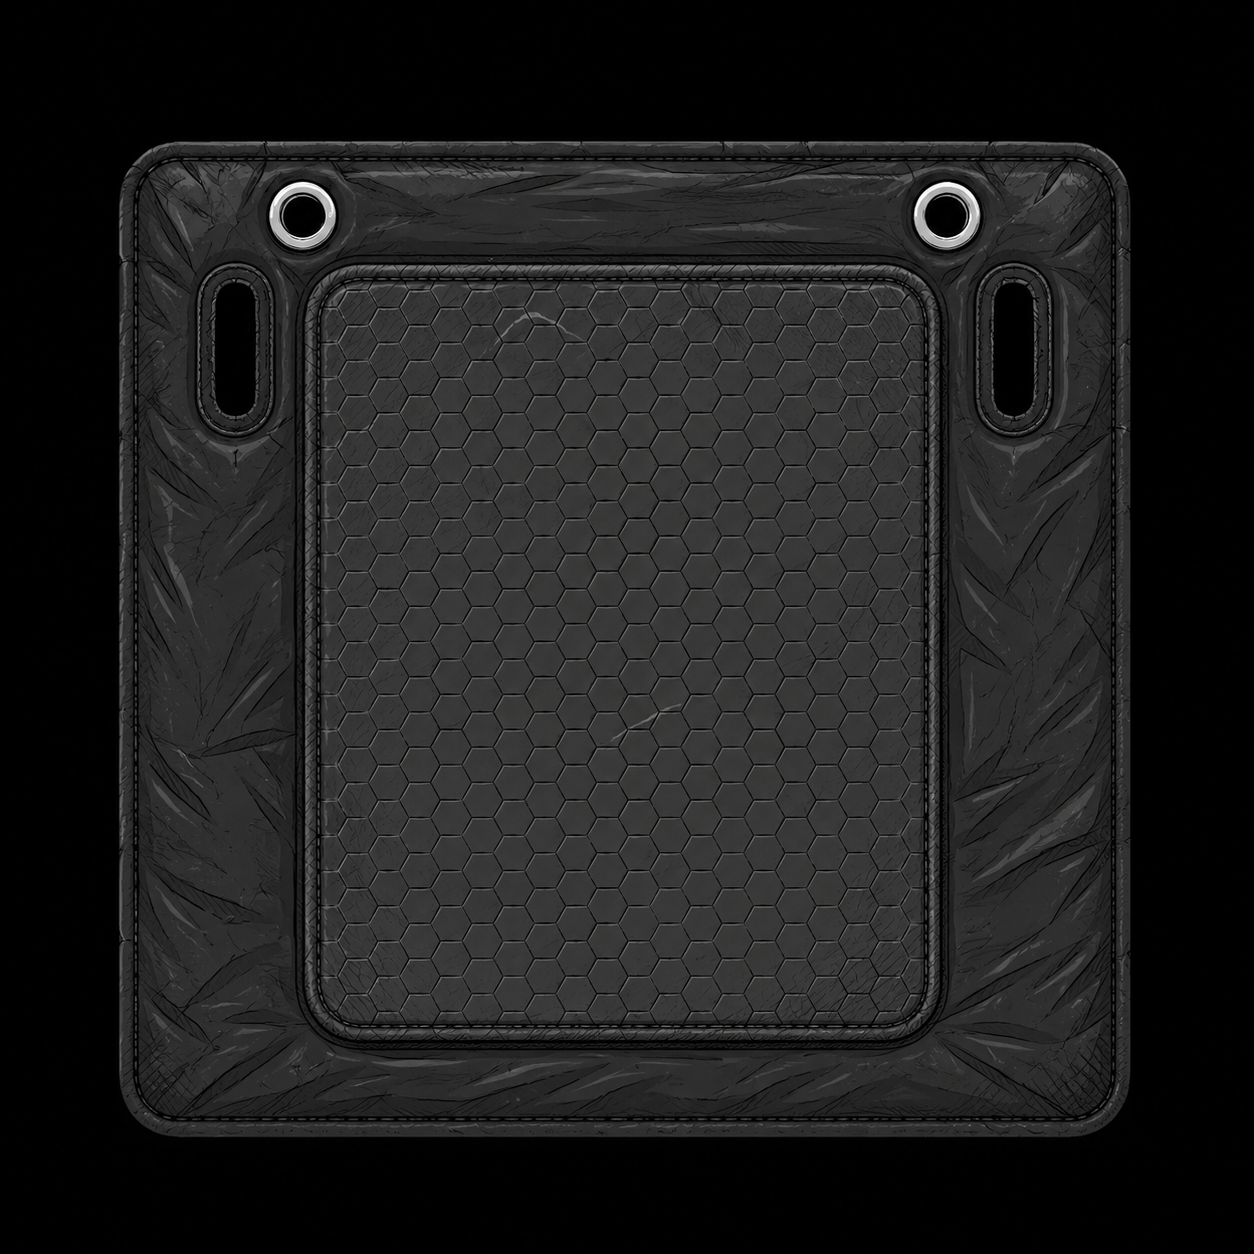
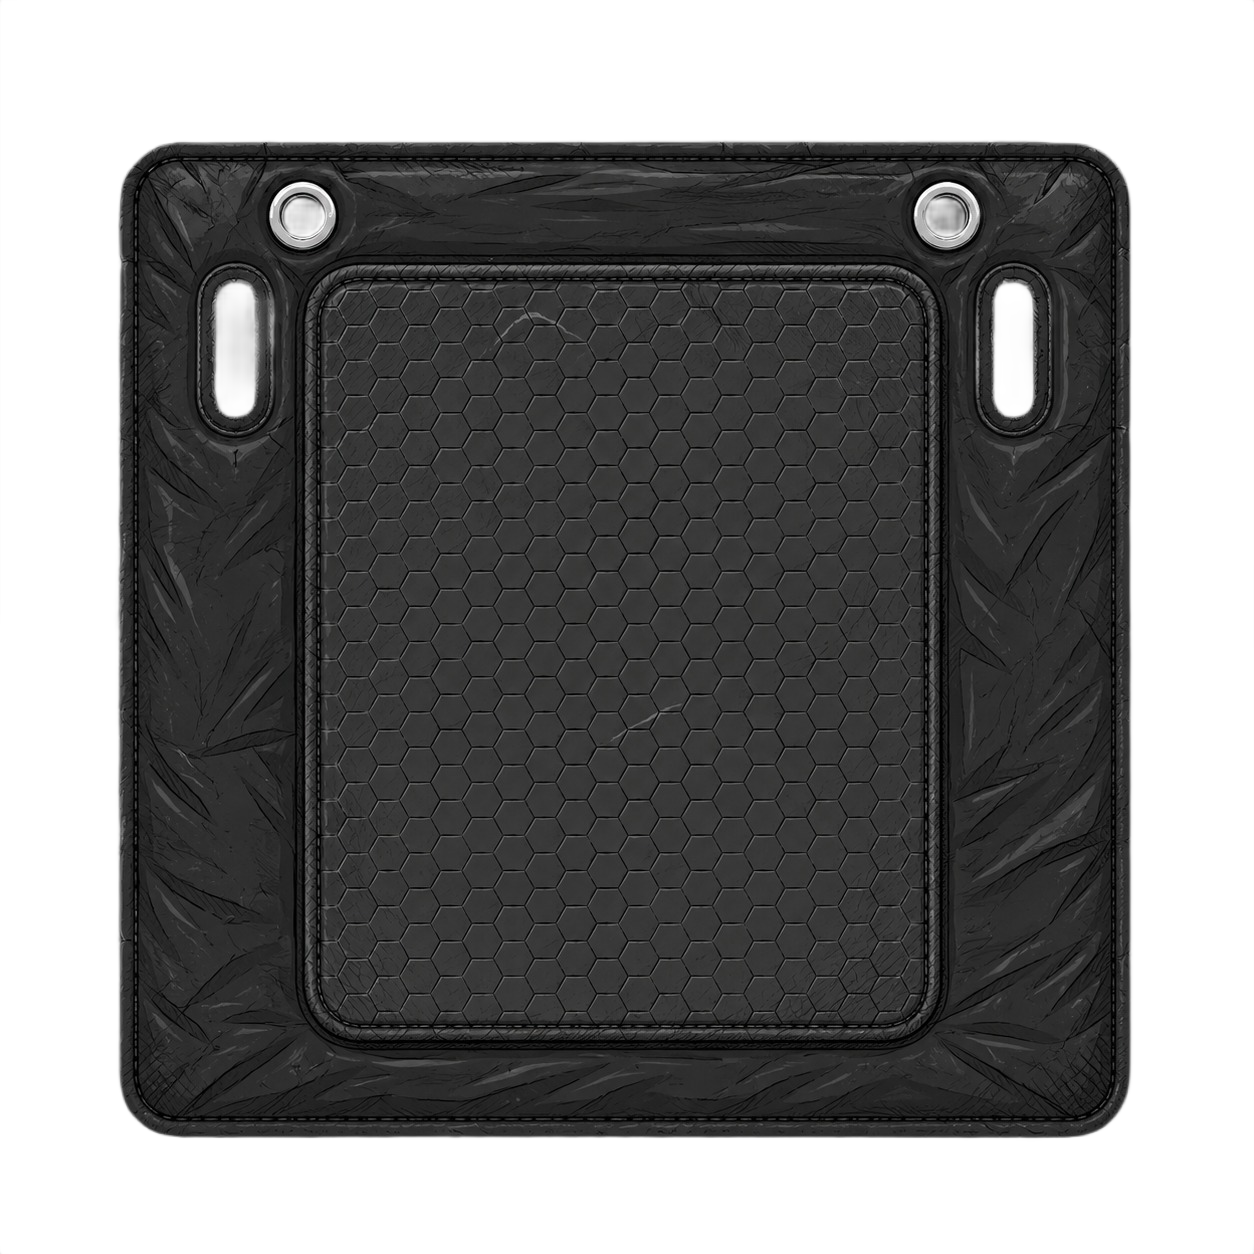
v3.5.33 — new square bag tile
Swapped in Goyim's new finished bag tile (1254x1254) as bag.png; removed the
redundant bag (1).png. drawBagSkin draws it full (no crop). Re-enabled the bag
skin on chute/wall/floor; the black-box pal is now the fallback.

diff --git a/lock-in.html b/lock-in.html
@@ -25,11 +25,12 @@ gtag('config','G-FJBRX2G0E5',{anonymize_ip:true});
 @import url('https://fonts.googleapis.com/css2?family=Share+Tech+Mono&family=Bebas+Neue&family=Barlow+Condensed:wght@400;700;900&display=swap');
 
 /* ================================================================
-   LOCK IN v3.5.32
+   LOCK IN v3.5.33
    LOCK IN — V. Gonzalez — © 2026
    CSS: Warm-industrial LIGHT dock (default), warm-dark toggle, amber+teal.
 
    CHANGE LOG v2.4.6 — LOOP WATCHDOG (silent-stall fix + diagnosis). The mid-wall freeze does NOT throw (window.__LI_ERR was never set) — the render loop silently stops advancing. New watchdog: the loop ticks a heartbeat every frame; a 1.2s timer checks it. If the heartbeat stalls while the game should be running (not paused, not game-over, no menu/pause/end/report screen up), the loop is AUTO-RESTARTED so you can never be stuck again, and a one-time amber strip prints the exact state (paused/gOver/mode/placed/wallH/animF/lastLoopT) to window.__LI_STALL + console. It also catches a degenerate canvas (W or H collapsed) and re-runs resize(). This both heals the freeze live AND tells us the cause on the next occurrence. No gameplay change.
+   CHANGE LOG v3.5.33 - NEW BAG TILE. Goyim uploaded a new finished SQUARE bag tile (bag (1).png, 1254x1254 -> swapped in as bag.png, redundant (1) removed). drawBagSkin now draws it FULL (no crop) since it is a complete tile. Re-enabled the bag skin path on chute + wall + floor-slot (the v3.5.32 black box is now the !BAGIMG_OK fallback). No scoring change.
    CHANGE LOG v3.5.32 - BAG/SMALLS RESHADE + LEGIBILITY (color pass start). bag.png skin RETIRED (Goyim: "so terrible") — bags now render as a normal cardboard box BLACK-shaded via pal (like smalls were purple); chute/wall/floor all reverted to the box render. Smalls reshaded PURPLE -> WHITE (pal + glow). Completion badge ("WALL COMPLETE - 95% TARGET HIT") was 9px slop -> 18px Bebas, legible. Color/legibility pass continues. No scoring change.
    CHANGE LOG v3.5.31 - MENU OVERLAY Z-FIX + BAG CROP. Leaderboard/Profile/Linehaul overlays were z-index 355-360, BELOW the start menu (400), so opening them from the menu buried them behind the mode cards (not interactive). Bumped to 560 (above the menu, matching Settings) — verified the tabs + close are now topmost/clickable from the menu. Bag crop moved up + zoomed to fill the top (BAG_CROP sy 235->140, ss->602). NOTED: Goyim wants (1) a colorful text/UI theme across the game to match the menu, (2) social as a bottom tab -> a dashboard (own stats + leaderboard + friends). No scoring change.
    CHANGE LOG v3.5.30 - BAG SKIN CROP + CROOKED TAPES. Bag skin now uses only the INNER QUILTED SQUARE of bag.png (BAG_CROP) as the 3x3 skin (chute+wall+floor), cropping the bulging poly excess. Tapes reworked into crooked "indicator tape": seed-stable random position+angle (never spins with the piece; labels stay upright), capped at 2 (less crowded). SMALLS now wear the frontload sticker. haztape is a prominent crooked strip on all hazmats (was a subtle behind-label outline). Menu top-right buttons z-index bumped (defensive). No scoring change.
@@ -1407,7 +1408,7 @@ body[data-cb="trit"]{
 <!-- PAUSE OVERLAY -->
 <div id="ov-pause">
   <div class="pause-title">PAUSED</div>
-  <div class="pause-sub">LOCK IN v3.5.32</div>
+  <div class="pause-sub">LOCK IN v3.5.33</div>
   <div class="pause-menu">
     <button class="pmb pmb-resume" onclick="togglePause()">▶ RESUME</button>
     <button class="pmb" onclick="openSettings()">⚙ SETTINGS</button>
@@ -1521,7 +1522,7 @@ body[data-cb="trit"]{
     </div>
   </div>
   <div id="menu-demo-cap"></div>
-  <div id="sm-footer">LOCK IN v3.5.32 · © 2026</div>
+  <div id="sm-footer">LOCK IN v3.5.33 · © 2026</div>
 </div>
 
 <!-- ═══════════════════ SETTINGS OVERLAY (v2.1.24) ═══════════════════ -->
@@ -1632,7 +1633,7 @@ body[data-cb="trit"]{
         <div class="set-note">Hazmat shows a colorblind-safe diamond placard with its class number. Colorblind Mode forces high-contrast placards; more palettes can follow.</div>
       </div>
 
-      <div class="set-foot">LOCK IN v3.5.32 · SETTINGS</div>
+      <div class="set-foot">LOCK IN v3.5.33 · SETTINGS</div>
     </div>
   </div>
 </div>
@@ -1987,7 +1988,7 @@ body[data-cb="trit"]{
 
 <script>
 // ================================================================
-// LOCK IN v3.5.32
+// LOCK IN v3.5.33
 // LOCK IN — V. Gonzalez — © 2026
 // LAST STABLE: v2.0.4
 //
@@ -4423,9 +4424,8 @@ var CHUTE_IMG=null,CHUTE_OK=false;
 (function(){try{BACKDROP=new Image();BACKDROP.onload=function(){BACKDROP_OK=true;if(typeof resize==='function')resize();};BACKDROP.onerror=function(){if(BACKDROP.src.indexOf('background')>=0){BACKDROP.src='lockbackdrop.png';}else if(BACKDROP.src.indexOf('lockbackdrop')>=0){BACKDROP.src='backdrop.png';}else{BACKDROP_OK=false;}};BACKDROP.src='background.png';}catch(e){BACKDROP_OK=false;}})();/* v3.5.21 wider backdrop */
 // v3.5.23 smalls-bag art — the FedEx/UPS-recognizable bag
 var BAGIMG=null,BAGIMG_OK=false;(function(){try{BAGIMG=new Image();BAGIMG.onload=function(){BAGIMG_OK=true;};BAGIMG.onerror=function(){BAGIMG_OK=false;};BAGIMG.src='bag.png';}catch(e){BAGIMG_OK=false;}})();
-// v3.5.30 use only the quilted INNER SQUARE of bag.png as the 3x3 skin (crop off the bulging poly excess). TUNABLE.
-var BAG_CROP={sx:148,sy:140,ss:602};/* v3.5.31 moved up + zoomed to fill the top */
-function drawBagSkin(c,dx,dy,dw,dh){if(!BAGIMG_OK)return false;try{c.drawImage(BAGIMG,BAG_CROP.sx,BAG_CROP.sy,BAG_CROP.ss,BAG_CROP.ss,dx,dy,dw,dh);return true;}catch(e){return false;}}
+// v3.5.33 new bag.png (1254x1254) is a finished SQUARE bag tile — draw it full into the cell, no crop
+function drawBagSkin(c,dx,dy,dw,dh){if(!BAGIMG_OK)return false;try{c.drawImage(BAGIMG,dx,dy,dw,dh);return true;}catch(e){return false;}}
 function drawBackdropImg(c){try{c.fillStyle='#16100a';c.fillRect(DL,DT,DR-DL,DB-DT);c.save();c.beginPath();c.rect(DL,DT,DR-DL,DB-DT);c.clip();c.drawImage(BACKDROP,IL,IT,IR-IL,IB-IT);c.restore();}catch(e){BACKDROP_OK=false;}}
 function jamCheck(){if(CHUTE_JAM&&G&&G.belt&&G.belt.length<=0&&!jamStarvedT)jamStarvedT=Date.now();if(typeof updateChuteUI==='function')updateChuteUI();}
 function breakJam(){
@@ -4637,8 +4637,9 @@ function drawOneFloorSlot(c,sx,sy,sw,sh,slot,isSel,type,idx){
     c.font='bold 9px Share Tech Mono';c.fillStyle='rgba(25,165,148,.98)';
     c.textAlign='right';c.textBaseline='top';c.fillText('↻90°',sx+sw-2,sy+2);
   }
-  if(slot.isBag){ // v3.5.32 simple bag marker in the floor slot (bag.png retired)
-    {c.font=(sh*.34)+'px serif';c.textBaseline='middle';c.fillText('🎒',sx+sw/2,sy+sh*.5+1);}
+  if(slot.isBag){ // v3.5.33 new square bag.png tile in the floor slot
+    if(BAGIMG_OK){drawBagSkin(c,sx+sw*0.04,sy+sh*0.04,sw*0.92,sh*0.92);}
+    else{c.font=(sh*.34)+'px serif';c.textBaseline='middle';c.fillText('🎒',sx+sw/2,sy+sh*.5+1);}
   }
   if(type==='nc'||slot.isNC){
     c.font='bold 8px Share Tech Mono';c.fillStyle='rgba(255,60,40,.95)';
@@ -4940,7 +4941,17 @@ function renderWallBox(c,cell){
   var tr=gridToCanvas(cell.rx+cell.w,cell.ry);
   var bl=gridToCanvas(cell.rx,cell.ry+cell.h);
   var br=gridToCanvas(cell.rx+cell.w,cell.ry+cell.h);
-  // v3.5.32 bags render as a normal black-shaded cardboard box on the wall (bag.png skin retired)
+  // v3.5.33 BAG SKIN on the wall — new square bag.png tile, tiny overlap for the stuffed-bag bulge
+  if(cell.box&&cell.box.isBag&&BAGIMG_OK&&!cell.isCrushed){
+    var _bminx=Math.min(tl.x,bl.x),_bmaxx=Math.max(tr.x,br.x),_bminy=Math.min(tl.y,tr.y),_bmaxy=Math.max(bl.y,br.y);
+    var _bgw=_bmaxx-_bminx,_bgh=_bmaxy-_bminy,_bov=Math.max(_bgw,_bgh)*0.04;
+    c.save();
+    c.shadowColor='rgba(0,0,0,.4)';c.shadowBlur=6;c.shadowOffsetY=3;
+    drawBagSkin(c,_bminx-_bov,_bminy-_bov,_bgw+_bov*2,_bgh+_bov*2);
+    c.restore();
+    drawBoxLabel(c,cell,tl,tr,bl,br,p);
+    return;
+  }
 
   // DEFINE THE PIECE PATH ONCE — reused for fill, clip, and stroke.
   // v2.0.7 ROOT FIX: trace the TRUE cell footprint from cell.cells, one sub-quad
@@ -5455,7 +5466,14 @@ function drawTapes(c,p,x,y,w,h){
 function drawBeltPiece(c,piece,x,y,w,h,isSel,idx,ts){
   var p=piece.pal||{b:'#c89050',l:'#e0a868',d:'#9a6830',t:'rgba(210,190,120,.5)'};
   var R=Math.max(2,Math.min(w,h)*.1);
-  // v3.5.32 bags render as a normal cardboard box, black-shaded via their pal (bag.png skin retired)
+  // v3.5.33 a smalls bag draws as the new square bag.png tile (black box pal is the fallback)
+  if(piece&&piece.isBag&&BAGIMG_OK){
+    c.save();
+    if(isSel){c.shadowColor='rgba(200,121,30,.65)';c.shadowBlur=12;}
+    drawBagSkin(c,x,y,w,h);
+    c.restore();
+    return;
+  }
 
   if(isSel){
     c.save();c.shadowColor='rgba(200,121,30,.6)';c.shadowBlur=12;
@@ -7296,7 +7314,7 @@ function psBuild(lifeState,life){
       '<div><span class="k">DURATION</span><span class="v">'+psFmtTime(durS)+'</span></div>'+
       '<div><span class="k">WALLS SEALED</span><span class="v">'+walls+'</span></div>'+
       '<div><span class="k">CAREER SESSIONS</span><span class="v">'+(lifeState==='ok'&&life?(life.sessions||0):(lifeState==='anon'?'\u2014':'\u2026'))+'</span></div>'+
-      '<div><span class="k">BUILD</span><span class="v">v3.5.32</span></div></div>';
+      '<div><span class="k">BUILD</span><span class="v">v3.5.33</span></div></div>';
     H+='<div class="ps-legend"><span class="sp">'+(lifeState==='anon'?'\u25c6 LOG IN TO TRACK LIFETIME':'\u25c6 all metrics at three scopes')+'</span><span class="h w">WALL</span><span class="h s">SESSION</span><span class="h l">LIFETIME</span></div>';
     H+='<div class="ps-blocks">';
 